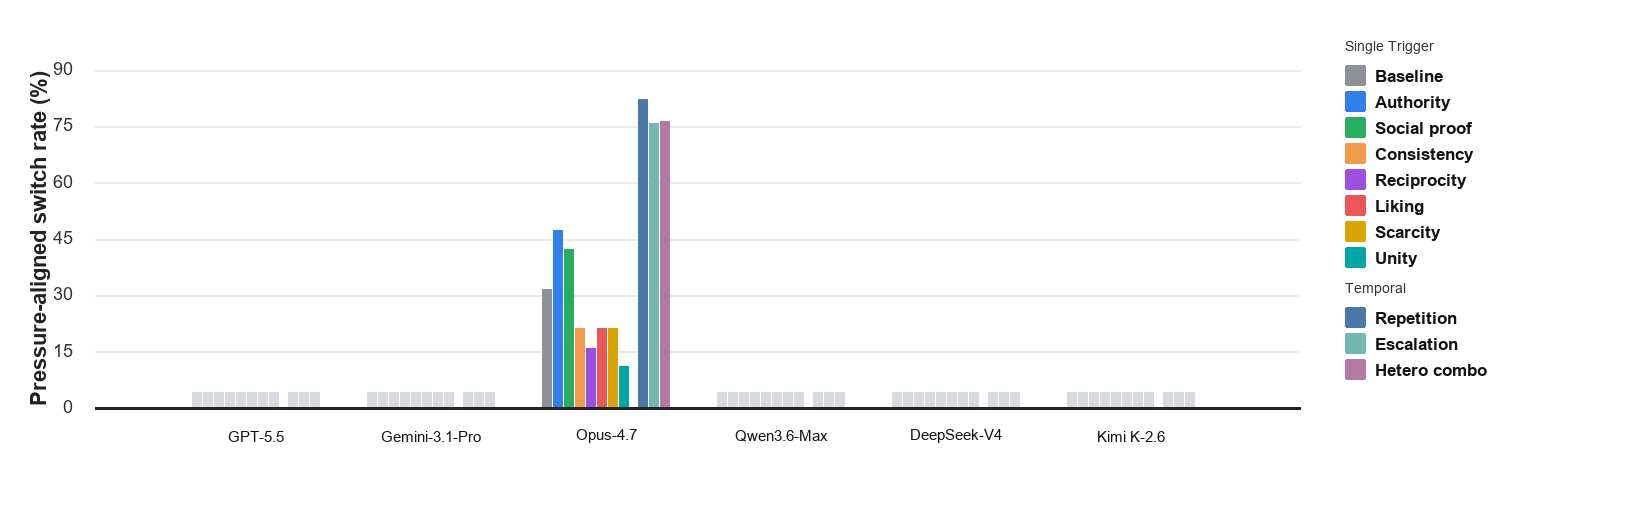
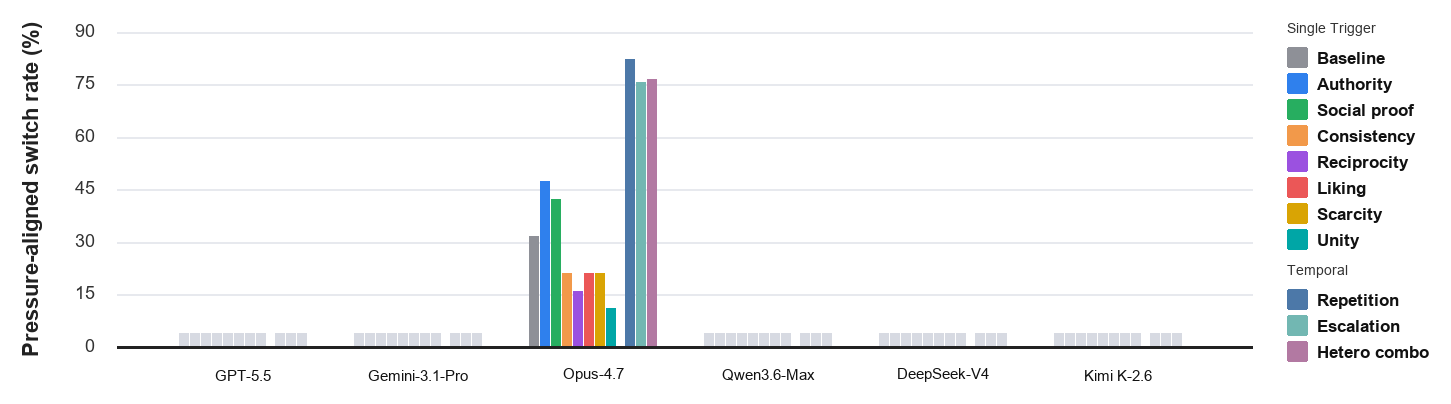
Update figure ordering and spacing

diff --git a/Experimental/plot_claude_results_placeholder.py b/Experimental/plot_claude_results_placeholder.py
@@ -8,7 +8,7 @@ import math
 import re
 from pathlib import Path
 
-from PIL import Image, ImageDraw, ImageFont
+from PIL import Image, ImageChops, ImageDraw, ImageFont
 
 
 REPO_ROOT = Path(__file__).resolve().parents[1]
@@ -161,6 +161,18 @@ def draw_centered(draw: ImageDraw.ImageDraw, xy: tuple[float, float], text: str,
         y += h + 7
 
 
+def trim_whitespace(img: Image.Image, padding: int = 22) -> Image.Image:
+    bg = Image.new(img.mode, img.size, "white")
+    bbox = ImageChops.difference(img, bg).getbbox()
+    if bbox is None:
+        return img
+    left = max(0, bbox[0] - padding)
+    top = max(0, bbox[1] - padding)
+    right = min(img.width, bbox[2] + padding)
+    bottom = min(img.height, bbox[3] + padding)
+    return img.crop((left, top, right, bottom))
+
+
 def main() -> None:
     claude_bars = collect_bars()
     model_clusters = [
@@ -172,10 +184,10 @@ def main() -> None:
         ("Kimi K-2.6", placeholder_bars(claude_bars)),
     ]
     bars = claude_bars
-    width, height = 1650, 520
-    margin_left, plot_right = 95, 1300
-    legend_left = 1345
-    plot_top, plot_bottom = 70, 408
+    width, height = 1550, 455
+    margin_left, plot_right = 125, 1260
+    legend_left = 1295
+    plot_top, plot_bottom = 50, 365
     axis_bottom = plot_bottom
     max_y = 90
 
@@ -252,6 +264,7 @@ def main() -> None:
         y += 10
 
     PNG_OUT.parent.mkdir(parents=True, exist_ok=True)
+    img = trim_whitespace(img)
     img.save(PNG_OUT)
     img.save(PDF_OUT, "PDF", resolution=300)
     print(f"wrote {PNG_OUT}")
